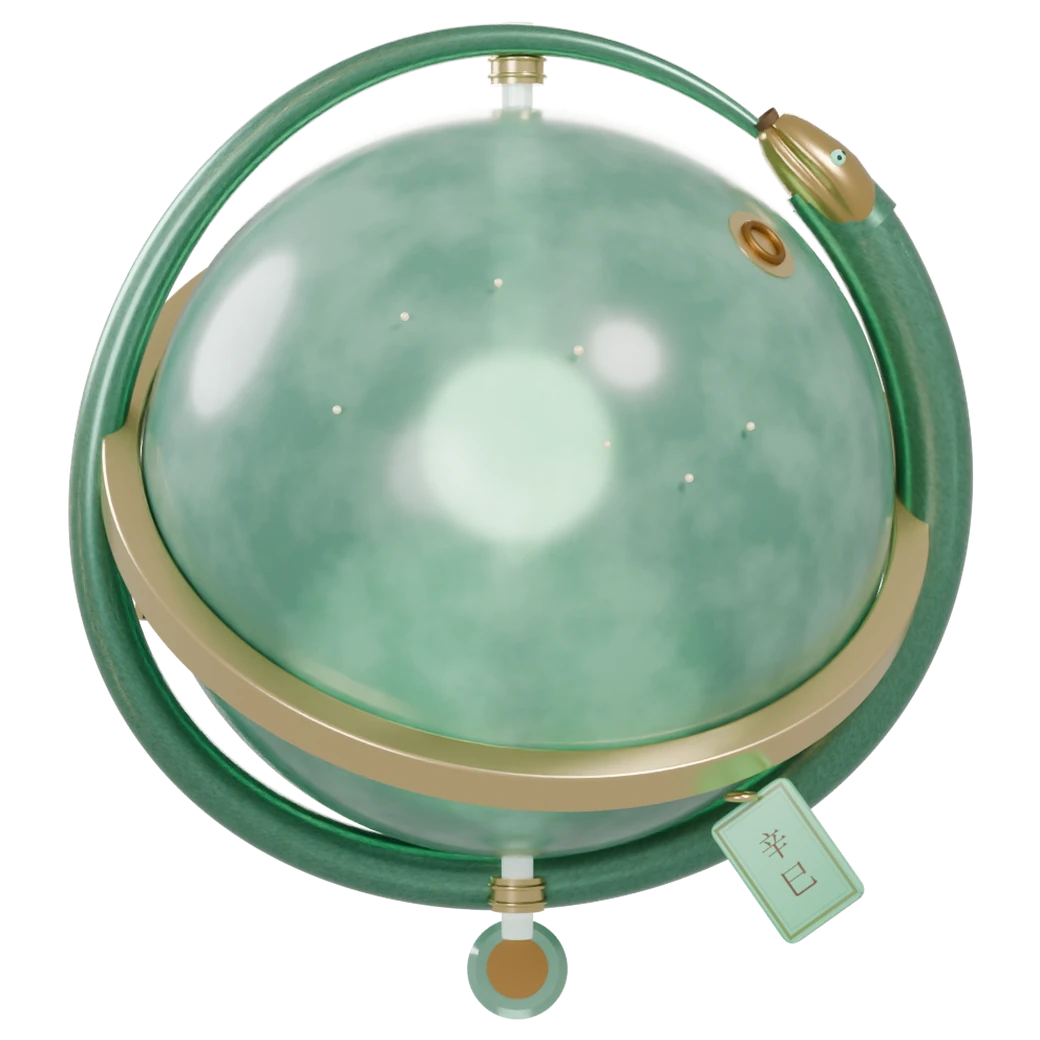
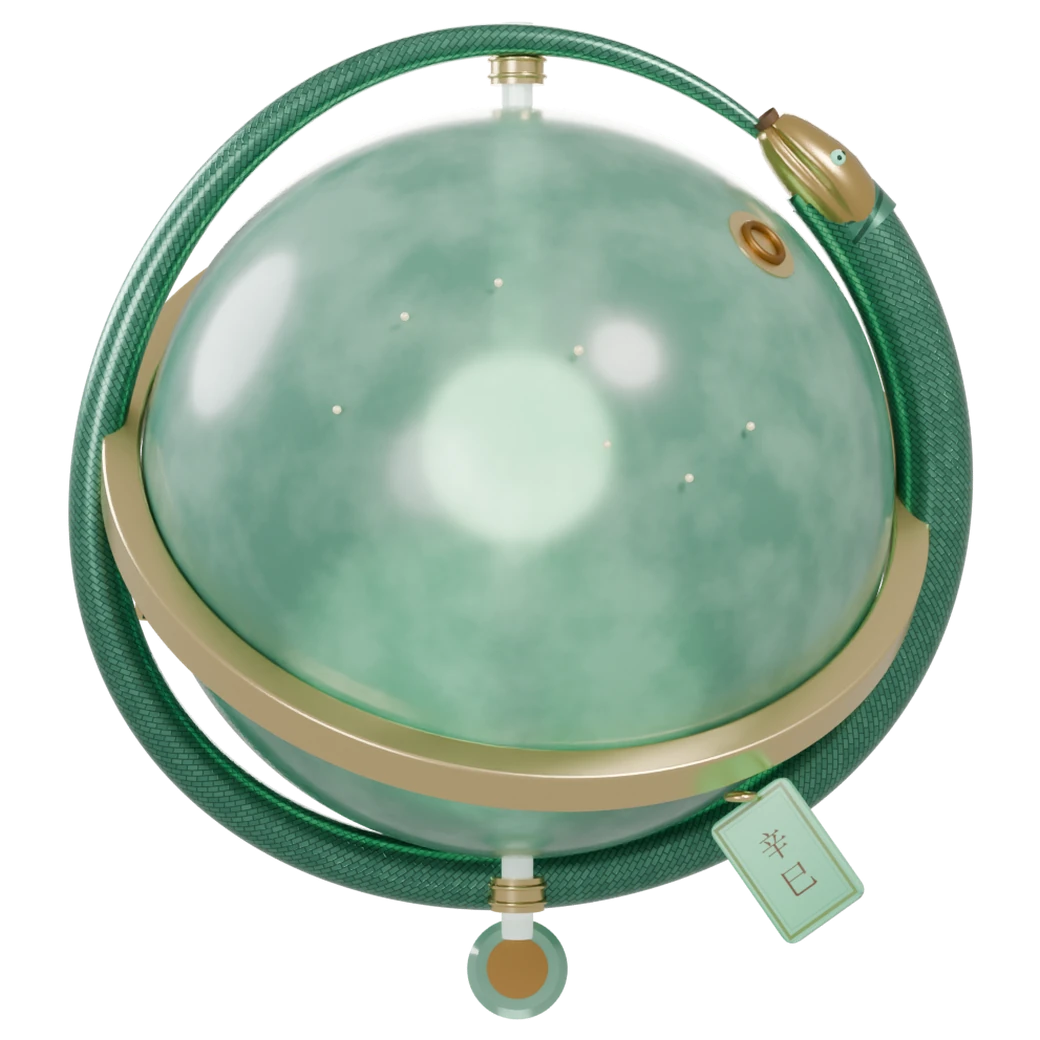
feat(tools): 新增直流电压降计算器（含单元测试）；fix(jade): 蛇身UV改物理尺度，甲片不再被拉长

diff --git a/src/scripts/tools/dc-drop.ts b/src/scripts/tools/dc-drop.ts
@@ -1,0 +1,74 @@
+import { dcVoltageDrop, type DropKind } from './logic';
+
+/** 直流线路压降计算器：输入即算，错误就地提示；不写入任何存储。 */
+export function mountDcDrop() {
+  const el = <T extends HTMLElement>(id: string) => document.getElementById(id) as T | null;
+  const voltage = el<HTMLInputElement>('dc-voltage');
+  const current = el<HTMLInputElement>('dc-current');
+  const length = el<HTMLInputElement>('dc-length');
+  const area = el<HTMLInputElement>('dc-area');
+  const rhoSel = el<HTMLSelectElement>('dc-rho');
+  const rhoCustom = el<HTMLInputElement>('dc-rho-custom');
+  const kind = el<HTMLSelectElement>('dc-kind');
+  const status = el<HTMLElement>('dc-status');
+  const result = el<HTMLElement>('dc-result');
+  const detail = el<HTMLElement>('dc-detail');
+  const copy = el<HTMLButtonElement>('dc-copy');
+  const example = el<HTMLButtonElement>('dc-example');
+  const copyStatus = el<HTMLElement>('dc-copy-status');
+  if (!voltage || !current || !length || !area || !rhoSel || !rhoCustom || !kind || !status || !result || !detail || !copy || !example || !copyStatus) return;
+
+  let text = '';
+  const fmt = (n: number, digits = 4) => Number(n.toPrecision(digits)).toString();
+
+  function refreshRhoField() {
+    rhoCustom.disabled = rhoSel.value !== 'custom';
+    if (rhoCustom.disabled) rhoCustom.setAttribute('aria-disabled', 'true');
+    else rhoCustom.removeAttribute('aria-disabled');
+  }
+
+  function compute() {
+    text = '';
+    result.textContent = '—';
+    detail.textContent = '';
+    const inputs = [voltage, current, length, area, rhoCustom];
+    inputs.forEach((input) => input.setAttribute('aria-invalid', 'false'));
+    const blank = !voltage.value.trim() && !current.value.trim() && !length.value.trim() && !area.value.trim();
+    if (blank) { status.textContent = '等待输入'; return; }
+    const rho = rhoSel.value === 'custom' ? rhoCustom.value : rhoSel.value;
+    try {
+      const r = dcVoltageDrop({
+        voltage: voltage.value, current: current.value, length: length.value,
+        area: area.value, rho, kind: kind.value as DropKind,
+      });
+      const warn = r.percent > 10 ? '（超过 10%，建议加粗导体或缩短线路后再核算）' : r.percent > 5 ? '（超过常用 5% 参考值，请复核）' : '';
+      result.textContent = `${fmt(r.drop, 4)} V · ${fmt(r.percent, 3)}%`;
+      detail.textContent = `负载端 ${fmt(r.endVoltage, 5)} V；回路总长 ${fmt(r.loopLength, 4)} m；回路电阻 ${fmt(r.resistance, 4)} Ω。${warn}`;
+      status.textContent = '计算完成';
+      text = `压降 ${fmt(r.drop, 4)} V（${fmt(r.percent, 3)}%），负载端 ${fmt(r.endVoltage, 5)} V`;
+    } catch (error) {
+      const message = error instanceof Error ? error.message : '无法计算';
+      status.textContent = message;
+      const target = /电源电压/.test(message) ? voltage : /负载电流/.test(message) ? current
+        : /线长/.test(message) ? length : /截面积/.test(message) ? area
+        : /电阻率/.test(message) ? rhoCustom : null;
+      target?.setAttribute('aria-invalid', 'true');
+    }
+  }
+
+  rhoSel.addEventListener('change', () => { refreshRhoField(); compute(); });
+  [voltage, current, length, area, rhoCustom].forEach((input) => input.addEventListener('input', compute));
+  kind.addEventListener('change', compute);
+  example.addEventListener('click', () => {
+    kind.value = 'dc2'; rhoSel.value = '0.0175'; refreshRhoField();
+    voltage.value = '24'; current.value = '5'; length.value = '10'; area.value = '2.5';
+    compute();
+  });
+  copy.addEventListener('click', async () => {
+    if (!text) { copyStatus.textContent = '没有可复制的结果。'; return; }
+    try { await navigator.clipboard.writeText(text); copyStatus.textContent = '已复制。'; }
+    catch { copyStatus.textContent = '浏览器拒绝访问剪贴板，请手动选择结果。'; }
+  });
+  refreshRhoField();
+  compute();
+}

diff --git a/src/scripts/tools/logic.ts b/src/scripts/tools/logic.ts
@@ -64,3 +64,45 @@ export function tidyLines(text:string, trim:boolean, sort:boolean) {
   if(sort)result.sort((a,b)=>a.localeCompare(b,'zh-CN'));
   return {text:result.join('\n'),before:lines.length,after:result.length,duplicates};
 }
+
+/** 直流线路压降：两线制（去程 + 回程）用 2·I·L·ρ/A，单线回路用 1·I·L·ρ/A。
+ *  ρ 单位 Ω·mm²/m（20 ℃）：退火铜 0.01724、硬铜/接线常用 0.0175、铝 0.0282。
+ *  只做工程前期估算，不替代按标准（如 IEC 60364-5-52）做的载流量与保护校验。 */
+export type DropKind = 'dc2' | 'dc1';
+export function parsePositive(raw: string, label: string, allowZero = false): number {
+  const s = raw.trim();
+  if (!s) throw new Error(`请填写${label}。`);
+  if (!/^[+-]?(?:\d+(?:\.\d*)?|\.\d+)(?:[eE][+-]?\d+)?$/.test(s)) throw new Error(`${label}必须是十进制数字。`);
+  const n = Number(s);
+  if (!Number.isFinite(n)) throw new Error(`${label}必须是有限数字。`);
+  if (allowZero ? n < 0 : n <= 0) throw new Error(allowZero ? `${label}不能为负数。` : `${label}必须大于 0。`);
+  return n;
+}
+export interface DropResult {
+  /** 压降（V） */
+  drop: number;
+  /** 压降占电源电压的百分比 */
+  percent: number;
+  /** 负载端电压（V） */
+  endVoltage: number;
+  /** 回路总电阻（Ω） */
+  resistance: number;
+  /** 计入回程的导体总长（m） */
+  loopLength: number;
+}
+export function dcVoltageDrop(p: { voltage: string; current: string; length: string; area: string; rho: string; kind: DropKind }): DropResult {
+  const voltage = parsePositive(p.voltage, '电源电压');
+  const current = parsePositive(p.current, '负载电流', true);
+  const length = parsePositive(p.length, '单程线长');
+  const area = parsePositive(p.area, '导体截面积');
+  const rho = parsePositive(p.rho, '电阻率');
+  if (area > 1000) throw new Error('导体截面积超过 1000 mm²，请确认单位是否为 mm²。');
+  if (length > 100000) throw new Error('单程线长超过 100 km，请确认单位是否为 m。');
+  const factor = p.kind === 'dc1' ? 1 : 2;
+  const loopLength = length * factor;
+  const resistance = (rho * loopLength) / area;
+  const drop = current * resistance;
+  const percent = (drop / voltage) * 100;
+  if (percent >= 100) throw new Error('计算压降已达到或超过电源电压，请检查输入是否合理。');
+  return { drop, percent, endVoltage: voltage - drop, resistance, loopLength };
+}

diff --git a/src/scripts/jade/build-jade.ts b/src/scripts/jade/build-jade.ts
@@ -376,11 +376,18 @@ export function buildJadeModel(options: { quality?: 'high' | 'low' } = {}): Jade
   const bodyPos = new Float32Array(vCount * 3);
   const bodyNor = new Float32Array(vCount * 3);
   const bodyUv = new Float32Array(vCount * 2);
+  // UV 必须按物理尺度铺，不能按参数尺度：旧写法 u=t*20、v=j*3 让"管长 : 周长"约 6:1，
+  // 方形砖格因此被拉成 6 倍长条——Scale 小看不出甲片、Scale 大整条变金点，怎么调都不收敛。
+  // 这里按弧长（≈2πR）与当地周长（2πr(t)）取同一套 UV 密度，甲片才是正方形。
+  const SNAKE_ARC = 2 * Math.PI * 1.14;
+  const PLATES_PER_UNIT = 16;
   for (let i = 0; i <= SEG; i += 1) {
+    const t = i / SEG;
+    const ringLen = 2 * Math.PI * snakeRadius(t);
     for (let j = 0; j <= RAD; j += 1) {
       const k = (i * (RAD + 1) + j) * 2;
-      bodyUv[k] = (i / SEG) * 20;
-      bodyUv[k + 1] = (j / RAD) * 3;
+      bodyUv[k] = t * SNAKE_ARC * PLATES_PER_UNIT;
+      bodyUv[k + 1] = (j / RAD) * ringLen * PLATES_PER_UNIT;
     }
   }
   const bodyIdx: number[] = [];

diff --git a/tools/blender/render-loop.py b/tools/blender/render-loop.py
@@ -85,12 +85,15 @@ def serpent_plates():
     out = [n for n in nt.nodes if n.type == 'OUTPUT_MATERIAL'][0]
     brick = nt.nodes.new('ShaderNodeTexBrick')
     # 甲片密度与缝宽可调：缝用金铜色才读得出"金底嵌青玉甲片"，但尺度过大就成编织袋。
-    brick.inputs['Scale'].default_value = float(os.environ.get("NOVA_PLATE_SCALE", "13.0"))
-    brick.inputs['Mortar Size'].default_value = float(os.environ.get("NOVA_PLATE_MORTAR", "0.006"))
+    # 几何侧 UV 已改成物理尺度（约 1 个 UV 单位 = 1 片甲片），Scale 取 1.0 才不再被拉长；
+    # 旧值 13.0 是给"参数尺度 UV"打的补丁，UV 修好后继续用会变成满身金点。
+    brick.inputs['Scale'].default_value = float(os.environ.get("NOVA_PLATE_SCALE", "1.0"))
+    brick.inputs['Mortar Size'].default_value = float(os.environ.get("NOVA_PLATE_MORTAR", "0.03"))
     brick.inputs['Mortar Smooth'].default_value = 0.2
     brick.inputs['Color1'].default_value = (0.13, 0.35, 0.25, 1)
     brick.inputs['Color2'].default_value = (0.09, 0.27, 0.19, 1)
-    brick.inputs['Mortar'].default_value = (0.55, 0.42, 0.18, 1)
+    # 缝必须比甲片暗（缝隙=阴影），用金铜色当缝会读成"鱼网袜"
+    brick.inputs['Mortar'].default_value = (0.05, 0.14, 0.10, 1)
     uvc = nt.nodes.new('ShaderNodeTexCoord')
     mp = nt.nodes.new('ShaderNodeMapping')
     mp.inputs['Rotation'].default_value[2] = 0.785398

diff --git a/docs/NOVA-RELEASE-20261110.md b/docs/NOVA-RELEASE-20261110.md
@@ -65,3 +65,16 @@ ESA 会在推送后重新构建。上一稳定版本的提交、标签、以及 
 - 未做 Safari 实测（本机无 Safari），跨引擎与辅助技术仍待验证。
 - 未添加安全响应头（CSP/HSTS），此项仍在待办。
 - 玉衡主视觉未更新，线上仍是上一版 WebP。
+
+## 九、工具箱新增：直流线路压降（2026-11-11 01:45，开发分支未发布）
+
+- 位置：`/tools#drop`，编号 04；同页导航增加「直流压降」。
+- 公式：`U = k · I · L · ρ / A`。`k=2` 两线制（去程+回程）、`k=1` 单线回路；`L` 为单程线长（m）、`A` 为截面（mm²）、`ρ` 为电阻率（Ω·mm²/m）。
+- ρ 预设：铜 0.0175（20 ℃ 常用值）、退火铜 0.01724、铝 0.0282、自定义。自定义输入在未选中「自定义」时禁用并标 `aria-disabled`。
+- 输入校验：空值、非十进制数字、负数、电压/线长/截面为 0、截面 > 1000 mm²、线长 > 100 km、压降 ≥ 电源电压，均在原地提示并把对应输入标 `aria-invalid="true"`。电流允许为 0。
+- 与知识库算例对齐：24 V / 5 A / 10 m / 2.5 mm² / ρ 0.0175 → **0.70 V、2.9167%、负载端 23.3 V、回路电阻 0.14 Ω**，与 `/docs/calculation-record` 中的算例一致。
+- 验证（本机实测）：
+  - 纯函数测试 `node tools/ops/test-tools.mjs` → **PASS 21 项断言**（含单位换算边界、压降正常值/单线/零电流/各类非法输入、文本去重、JSON 解析）。
+  - 浏览器实测（Chrome，`/tools/`）：点「填入示例」得 `0.7 V · 2.92%`、详情 `负载端 23.3 V；回路总长 20 m；回路电阻 0.14 Ω`；截面改 0 提示「导体截面积必须大于 0。」；电压填 `abc` 提示「电源电压必须是十进制数字。」；切单线回路得 `0.35 V · 1.46%`；`pageerror 0`、`requestfailed 0`；390×844 下 `innerWidth == scrollWidth`。
+  - 全站 17 路由 × 4 视口（1440/768/390/320）= 68 组：**TOTAL 68 / ISSUES []**；`check-links` ROUTES 17 / LINKS 18 / PROBLEMS 0。
+- 未做：温度修正（ρ 随温度变化）、交流集肤效应与功率因数、按 IEC 60364-5-52 的载流量与保护校验——页面已注明不替代标准验算。
